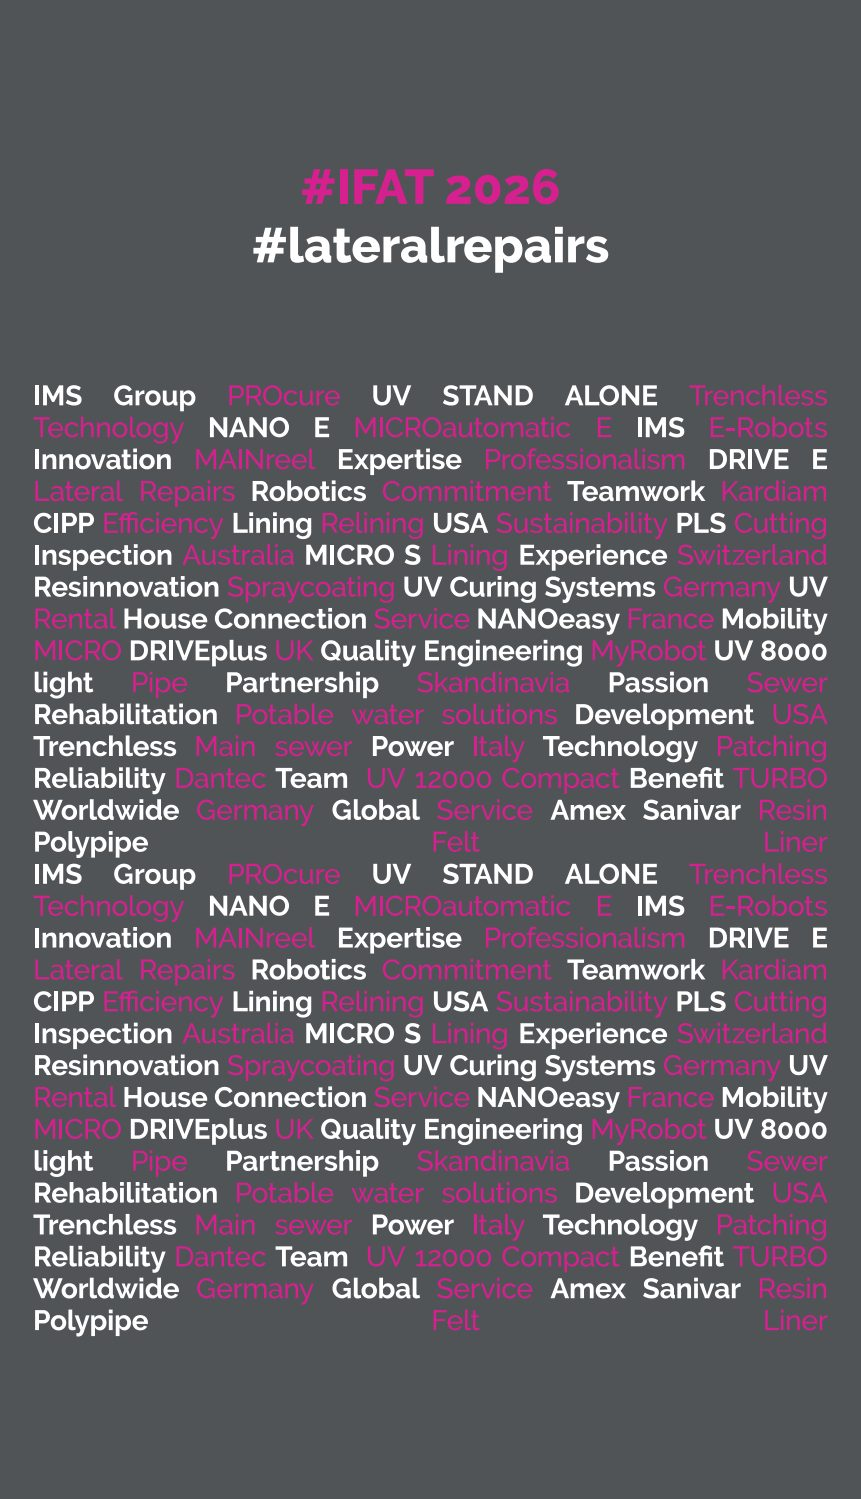
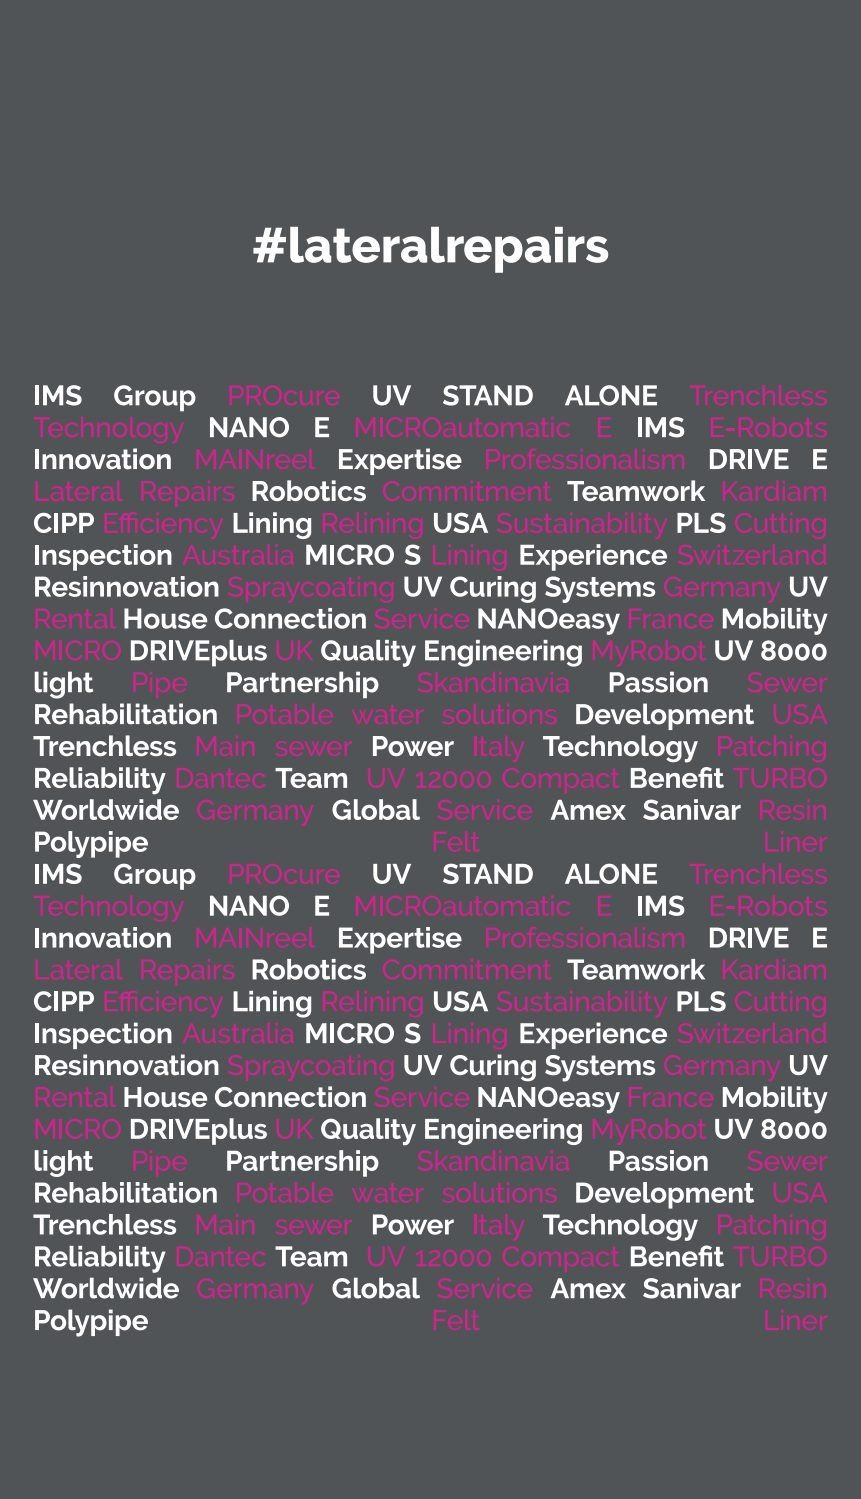
App refinements: units, Cure Time, artwork, header, Tech Data
- Mix Calc imperial mode is now inches throughout: liner length switches
  from feet to inches, and DN range, wall thickness and the out-of-range
  warning all convert too. Values typed in are converted when the unit
  system is toggled, so 150 mm no longer becomes 150 inches.
- Remove the Cure Time section entirely (screen, home tile, registry
  entry, its styles and the now-unused Clock/Check imports).
- Remove the "#IFAT 2026" line from the hashtag backwall artwork,
  keeping "#lateralrepairs" and the rest of the image intact.
- Section artwork now stays fixed behind the content while scrolling,
  softened with a dark scrim and blur so it reads as a branded wash and
  never competes with the text over it.
- Header wordmark is lifted from the brand artwork itself (transparent
  PNG), so "LATERAL REPAIRS" matches the printed lettering exactly.
- Tech Data is grouped into collapsible sections — All documents,
  Liners, Calibration hoses, Resins & materials, Silicate resin system —
  with per-item notes (duty rating, component A/B) instead of one flat
  list of 17.

Claude-Session: https://claude.ai/code/session_01BRHAYAgVEQBb18msxB8oJF

diff --git a/app/src/App.jsx b/app/src/App.jsx
@@ -1,7 +1,6 @@
 import { useState } from "react";
 import {
   Zap,
-  Clock,
   FileText,
   Shield,
   Image,
@@ -11,7 +10,6 @@ import {
   MapPin,
   Globe,
   RotateCcw,
-  Check,
   ChevronRight,
   ChevronLeft,
 } from "lucide-react";
@@ -46,11 +44,15 @@ const IMG = {
   backwall425:  "/images/backwall-425.jpg",
   topWall:      "/images/top-wall.jpg",
   banner:       "/images/banner.jpg",
+  wordmark:     "/images/wordmark.png",
 };
 
 const styles = {
   app: {
-    background: C.bg,
+    // Transparent so the fixed screen artwork behind it shows through;
+    // the page background itself is painted on <body>.
+    background: "transparent",
+    zIndex: 1,
     minHeight: "100vh",
     fontFamily: "'Rajdhani', 'Oswald', sans-serif",
     color: C.text,
@@ -249,16 +251,6 @@ const styles = {
   resultRow: { display: "flex", justifyContent: "space-between", padding: "6px 0", borderBottom: `1px solid ${C.border}` },
   resultLabel: { color: C.muted, fontSize: 13, letterSpacing: 1 },
   resultValue: { fontWeight: 700, fontSize: 15, color: C.green },
-  // Cure Timer
-  cureTitle: { fontSize: 24, fontWeight: 700, display: "flex", alignItems: "center", gap: 10, marginBottom: 20 },
-  cureResult: {
-    background: "#0a2030",
-    border: `1px solid ${C.cyan}44`,
-    borderRadius: 6,
-    padding: 20,
-    marginTop: 16,
-    textAlign: "center",
-  },
   // Contact
   contactCard: {
     background: C.card,
@@ -409,25 +401,52 @@ function kgPerMetre(liner, dnMm) {
 const mixedDensity = (r) =>
   r.single ? r.dens : (r.ratio[0] + r.ratio[1]) / (r.ratio[0] / r.densA + r.ratio[1] / r.densB);
 
-const DATASHEETS = [
-  { name: "Complete pack — all documents", file: "/datasheets/lr-technical-data-complete.pdf" },
-  { name: "MULTIline PRO 4.5 mm",      file: "/datasheets/multiline-pro-4-5mm.pdf" },
-  { name: "MULTIline PRO 5.5 mm",      file: "/datasheets/multiline-pro-5-5mm.pdf" },
-  { name: "MULTIline FLEX",            file: "/datasheets/multiline-flex.pdf" },
-  { name: "MULTIline CORE",            file: "/datasheets/multiline-core.pdf" },
-  { name: "MULTIline FORCE 3.0 mm",    file: "/datasheets/multiline-force-3-0mm.pdf" },
-  { name: "MULTIline FORCE RF 4.5 mm", file: "/datasheets/multiline-force-rf-4-5mm.pdf" },
-  { name: "MULTIline FORCE UV",        file: "/datasheets/multiline-force-uv.pdf" },
-  { name: "Calibration Hose Welded · Violet (LD)",  file: "/datasheets/calibration-hose-welded-violet-ld.pdf" },
-  { name: "Calibration Hose Welded (MD)",           file: "/datasheets/calibration-hose-welded-md.pdf" },
-  { name: "Calibration Hose Stitched & Welded (HD)", file: "/datasheets/calibration-hose-stitched-welded-hd.pdf" },
-  { name: "Glassfiber Complex 1050",   file: "/datasheets/glassfiber-complex-1050.pdf" },
-  { name: "End Cap Glue",              file: "/datasheets/end-cap-glue.pdf" },
-  { name: "MFE 7516 Vinyl Ester — SDS", file: "/datasheets/mfe7516-vinyl-ester-sds.pdf" },
-  { name: "Silicate Resin Waterglass Hardener — SDS", file: "/datasheets/silicate-resin-waterglass-hardener-sds.pdf" },
-  { name: "Silicate Resin W01 Fast — SDS",            file: "/datasheets/silicate-resin-w01-fast-sds.pdf" },
-  { name: "Silicate Resin Winter — SDS",               file: "/datasheets/silicate-resin-winter-sds.pdf" },
-  { name: "Silicate Resin Summer — SDS",               file: "/datasheets/silicate-resin-summer-sds.pdf" },
+// Tech Data documents, grouped so the list stays scannable. Each group is
+// collapsible; the first one starts open.
+const DATASHEET_GROUPS = [
+  {
+    group: "All documents",
+    items: [
+      { name: "Complete pack", note: "17 documents · 56 pages", file: "/datasheets/lr-technical-data-complete.pdf" },
+    ],
+  },
+  {
+    group: "Liners",
+    items: [
+      { name: "MULTIline PRO 4.5 mm",      file: "/datasheets/multiline-pro-4-5mm.pdf" },
+      { name: "MULTIline PRO 5.5 mm",      file: "/datasheets/multiline-pro-5-5mm.pdf" },
+      { name: "MULTIline FLEX",            file: "/datasheets/multiline-flex.pdf" },
+      { name: "MULTIline CORE",            file: "/datasheets/multiline-core.pdf" },
+      { name: "MULTIline FORCE 3.0 mm",    file: "/datasheets/multiline-force-3-0mm.pdf" },
+      { name: "MULTIline FORCE RF 4.5 mm", file: "/datasheets/multiline-force-rf-4-5mm.pdf" },
+      { name: "MULTIline FORCE UV",        file: "/datasheets/multiline-force-uv.pdf" },
+    ],
+  },
+  {
+    group: "Calibration hoses",
+    items: [
+      { name: "Welded · Violet",     note: "Light duty",  file: "/datasheets/calibration-hose-welded-violet-ld.pdf" },
+      { name: "Welded",              note: "Medium duty", file: "/datasheets/calibration-hose-welded-md.pdf" },
+      { name: "Stitched & Welded",   note: "Heavy duty",  file: "/datasheets/calibration-hose-stitched-welded-hd.pdf" },
+    ],
+  },
+  {
+    group: "Resins & materials",
+    items: [
+      { name: "MFE 7516 Vinyl Ester",  note: "Safety data sheet", file: "/datasheets/mfe7516-vinyl-ester-sds.pdf" },
+      { name: "Glassfiber Complex 1050", file: "/datasheets/glassfiber-complex-1050.pdf" },
+      { name: "End Cap Glue",            file: "/datasheets/end-cap-glue.pdf" },
+    ],
+  },
+  {
+    group: "Silicate resin system",
+    items: [
+      { name: "Waterglass Hardener", note: 'Component "B" · SDS', file: "/datasheets/silicate-resin-waterglass-hardener-sds.pdf" },
+      { name: "W01 Fast",            note: 'Component "A" · SDS', file: "/datasheets/silicate-resin-w01-fast-sds.pdf" },
+      { name: "Winter",              note: 'Component "A" · SDS', file: "/datasheets/silicate-resin-winter-sds.pdf" },
+      { name: "Summer",              note: 'Component "A" · SDS', file: "/datasheets/silicate-resin-summer-sds.pdf" },
+    ],
+  },
 ];
 
 // Certifying / testing bodies shown as logos only (no certificate uploaded).
@@ -522,7 +541,6 @@ function HomeScreen({ navigate }) {
       <div style={styles.grid}>
         {[
           { key: "calc",    Icon: Zap,      iconColor: C.pink,   label: "MIX CALC",     accent: C.pink },
-          { key: "cure",    Icon: Clock,    iconColor: C.cyan,   label: "CURE TIME",    accent: null },
           { key: "data",    Icon: FileText, iconColor: C.gold,   label: "TECH DATA",    accent: null },
           { key: "certs",   Icon: Shield,   iconColor: C.purple, label: "CERTIFICATES", accent: null },
           { key: "media",   Icon: Image,    iconColor: C.gold,   label: "MEDIA",        accent: null },
@@ -564,10 +582,31 @@ function CalcScreen() {
   const liner = LINERS.find((l) => l.name === linerType);
   const isMetric = units === "METRIC";
 
+  // Convert what's already typed when the unit system changes, so a DN of
+  // 150 mm doesn't silently become 150 inches. Imperial is inches for both
+  // diameter and length.
+  function switchUnits(next) {
+    if (next === units) return;
+    const conv = (v, f) => {
+      const n = parseFloat(v);
+      return Number.isFinite(n) ? String(Math.round(n * f * 100) / 100) : v;
+    };
+    if (next === "IMPERIAL") {
+      setDn((v) => conv(v, 1 / 25.4));
+      setLength((v) => conv(v, 1000 / 25.4)); // m -> in
+    } else {
+      setDn((v) => conv(v, 25.4));
+      setLength((v) => conv(v, 25.4 / 1000)); // in -> m
+    }
+    setUnits(next);
+    setResult(null);
+  }
+
   function calculate() {
     const rs = RESINS.find((r) => r.name === resin);
+    // Imperial input is inches for BOTH diameter and length.
     const dnMm = (parseFloat(dn) || 0) * (isMetric ? 1 : 25.4);
-    const lenM = (parseFloat(length) || 0) * (isMetric ? 1 : 0.3048);
+    const lenM = (parseFloat(length) || 0) * (isMetric ? 1 : 0.0254);
     if (dnMm <= 0 || lenM <= 0) return;
     const extraPct = parseFloat(extra) || 0;
 
@@ -628,8 +667,8 @@ function CalcScreen() {
           ["Liner type",       result.linerType],
           ["Resin system",     result.resin],
           ["Liner DN",         result.dn + (units === "METRIC" ? " mm" : " in")],
-          ["Wall thickness",   result.wall.toFixed(1) + " mm"],
-          ["Liner lenght",     result.length + (units === "METRIC" ? " m" : " ft")],
+          ["Wall thickness",   units === "METRIC" ? result.wall.toFixed(1) + " mm" : (result.wall / 25.4).toFixed(2) + " in"],
+          ["Liner lenght",     result.length + (units === "METRIC" ? " m" : " in")],
           ["Extra margin",     "+" + result.extraPct + " %"],
           ["Mix ratio",        result.rs.single ? "Single component" : result.rs.ratio.join(":") + " by weight"],
         ].map(([l, v]) => (
@@ -641,9 +680,11 @@ function CalcScreen() {
 
         {result.dnOutOfRange && (
           <div style={{ color: "#ffc65c", fontSize: 13, lineHeight: 1.5, padding: "8px 0" }}>
-            ⚠ DN {result.dnMm} mm is outside the {result.linerType} range
-            ({LINERS.find((l) => l.name === result.linerType).dn.join("–")} mm) —
-            calculated at DN {result.dnClamped} mm.
+            ⚠ DN {isMetric ? `${result.dnMm} mm` : `${(result.dnMm / 25.4).toFixed(1)} in`} is outside
+            the {result.linerType} range ({isMetric
+              ? `${LINERS.find((l) => l.name === result.linerType).dn.join("–")} mm`
+              : LINERS.find((l) => l.name === result.linerType).dn.map((d) => (d / 25.4).toFixed(1)).join("–") + " in"}) —
+            calculated at DN {isMetric ? `${result.dnClamped} mm` : `${(result.dnClamped / 25.4).toFixed(1)} in`}.
           </div>
         )}
 
@@ -737,7 +778,7 @@ function CalcScreen() {
       <span style={styles.label}>UNITS</span>
       <div style={styles.toggleRow}>
         {["METRIC", "IMPERIAL"].map((u) => (
-          <button key={u} style={styles.toggleBtn(units === u, C.text)} onClick={() => setUnits(u)}>{u}</button>
+          <button key={u} style={styles.toggleBtn(units === u, C.text)} onClick={() => switchUnits(u)}>{u}</button>
         ))}
       </div>
 
@@ -750,11 +791,15 @@ function CalcScreen() {
       <span style={styles.label}>LINER DN ({isMetric ? "MM" : "IN"})</span>
       <input style={styles.input} value={dn} onChange={(e) => setDn(e.target.value)} placeholder={isMetric ? "150" : "6"} type="number" />
       <div style={{ color: C.muted, fontSize: 13, marginTop: 6 }}>
-        {liner.name}: DN {liner.dn[0]}–{liner.dn[1]} mm · wall {liner.wall.toFixed(1)} mm (from datasheet)
+        {liner.name}: DN{" "}
+        {isMetric
+          ? `${liner.dn[0]}–${liner.dn[1]} mm · wall ${liner.wall.toFixed(1)} mm`
+          : `${(liner.dn[0] / 25.4).toFixed(1)}–${(liner.dn[1] / 25.4).toFixed(1)} in · wall ${(liner.wall / 25.4).toFixed(2)} in`}
+        {" "}(from datasheet)
       </div>
 
-      <span style={styles.label}>LINER LENGTH ({isMetric ? "M" : "FT"})</span>
-      <input style={styles.input} value={length} onChange={(e) => setLength(e.target.value)} placeholder={isMetric ? "5" : "15"} type="number" />
+      <span style={styles.label}>LINER LENGTH ({isMetric ? "M" : "IN"})</span>
+      <input style={styles.input} value={length} onChange={(e) => setLength(e.target.value)} placeholder={isMetric ? "5" : "200"} type="number" />
 
       <span style={styles.label}>EXTRA MARGIN (WET-OUT / WASTAGE)</span>
       <SelectDropdown options={EXTRA_OPTIONS} value={extra} onChange={setExtra} />
@@ -767,75 +812,48 @@ function CalcScreen() {
   );
 }
 
-function CureScreen() {
-  const [method, setMethod] = useState("AMBIENT");
-  const [temp, setTemp] = useState("20");
-  const [result, setResult] = useState(null);
-  const METHODS = ["AMBIENT", "HOT WATER", "STEAM"];
-
-  function calculate() {
-    const t = parseFloat(temp) || 20;
-    let hours;
-    if (method === "AMBIENT")        hours = Math.max(1, Math.round(48 / (t / 10)));
-    else if (method === "HOT WATER") hours = Math.max(0.5, Math.round(24 / (t / 20)));
-    else                             hours = Math.max(0.25, Math.round(8 / (t / 60)));
-    setResult({ hours, method, temp: t });
-  }
-
-  return (
-    <div style={styles.body}>
-      <SectionPhoto
-        src={IMG.backwallLevi}
-        url={IMG.backwallLevi}
-        maxHeight={220}
-        style={{ marginBottom: 20 }}
-      />
-      <div style={styles.cureTitle}>
-        <Clock size={28} color={C.cyan} style={{ filter: `drop-shadow(0 0 6px ${C.cyan})` }} />
-        <span>CURE TIMER</span>
-      </div>
-
-      <span style={styles.label}>CURING METHOD</span>
-      <div style={styles.toggleRow}>
-        {METHODS.map((m) => (
-          <button key={m} style={{ ...styles.toggleBtn(method === m, C.cyan), fontSize: 11 }} onClick={() => { setMethod(m); setResult(null); }}>
-            {method === m && <Check size={12} />}{m}
-          </button>
-        ))}
-      </div>
-
-      <span style={styles.label}>TEMPERATURE (°C)</span>
-      <input style={styles.input} value={temp} onChange={(e) => setTemp(e.target.value)} type="number" />
-
-      <button style={styles.calcBtn(C.cyan)} onClick={calculate}>CALCULATE TIME</button>
-
-      {result && (
-        <div style={styles.cureResult}>
-          <div style={{ color: C.cyan, fontSize: 12, letterSpacing: 3, marginBottom: 8 }}>ESTIMATED CURE TIME</div>
-          <div style={{ fontSize: 48, fontWeight: 900, color: C.cyan }}>{result.hours}h</div>
-          <div style={{ color: C.muted, fontSize: 13, marginTop: 4 }}>{result.method} @ {result.temp}°C</div>
-        </div>
-      )}
-
-      <div style={styles.versionText}>VERSION 1.3.0</div>
-    </div>
-  );
-}
-
 function DataScreen() {
+  // Only the first group starts expanded, so the screen opens as a short
+  // menu instead of one long list.
+  const [open, setOpen] = useState(() => DATASHEET_GROUPS.map((_, i) => i === 0));
+  const toggle = (i) => setOpen((o) => o.map((v, k) => (k === i ? !v : v)));
+
   return (
     <div style={styles.body}>
       <div style={styles.sectionTitle}>TECHNICAL DATA</div>
       <div style={styles.sectionSub}>:: OFFICIAL DOCUMENTATION</div>
       <div style={styles.divider} />
-      {DATASHEETS.map(({ name, file }) => (
-        <div key={name} style={styles.listItem} onClick={() => window.open(file, "_blank")}>
-          <div style={styles.listIcon}><FileText size={24} color={C.pink} /></div>
-          <div style={styles.listText}>
-            <div style={styles.listTitle}>{name}</div>
-            <div style={styles.listSub}>OPEN PDF</div>
+
+      {DATASHEET_GROUPS.map(({ group, items }, gi) => (
+        <div key={group} style={{ marginBottom: 14 }}>
+          <div
+            onClick={() => toggle(gi)}
+            style={{
+              display: "flex", alignItems: "center", gap: 10, cursor: "pointer",
+              padding: "10px 4px", borderBottom: `1px solid ${C.border}`, marginBottom: 10,
+            }}
+          >
+            <span style={{ fontSize: 13, fontWeight: 700, letterSpacing: 2, color: C.pink, flex: 1 }}>
+              {group.toUpperCase()}
+            </span>
+            <span style={{ fontSize: 12, color: C.muted }}>{items.length}</span>
+            <ChevronRight
+              size={16}
+              color={C.muted}
+              style={{ transform: open[gi] ? "rotate(90deg)" : "none", transition: "transform 0.15s" }}
+            />
           </div>
-          <ChevronRight size={18} color={C.muted} />
+
+          {open[gi] && items.map(({ name, note, file }) => (
+            <div key={file} style={styles.listItem} onClick={() => window.open(file, "_blank")}>
+              <div style={styles.listIcon}><FileText size={24} color={C.pink} /></div>
+              <div style={styles.listText}>
+                <div style={styles.listTitle}>{name}</div>
+                <div style={styles.listSub}>{note ? note.toUpperCase() : "OPEN PDF"}</div>
+              </div>
+              <ChevronRight size={18} color={C.muted} />
+            </div>
+          ))}
         </div>
       ))}
     </div>
@@ -992,14 +1010,15 @@ function ContactScreen() {
 }
 
 // ─── APP ─────────────────────────────────────────────────────────────────────
+// `bg` is the artwork that stays fixed behind each screen while its content
+// scrolls over it.
 const SCREENS = {
-  home:    { title: null,           component: HomeScreen },
-  calc:    { title: "CALCULATOR",   component: CalcScreen },
-  cure:    { title: "CURE TIME",    component: CureScreen },
-  data:    { title: "DATASHEETS",   component: DataScreen },
-  certs:   { title: "CERTIFICATES", component: CertsScreen },
-  media:   { title: "MEDIA",        component: MediaScreen },
-  contact: { title: "CONTACT",      component: ContactScreen },
+  home:    { title: null,           component: HomeScreen,    bg: IMG.backwallDesni },
+  calc:    { title: "CALCULATOR",   component: CalcScreen,    bg: IMG.backwall400 },
+  data:    { title: "DATASHEETS",   component: DataScreen,    bg: IMG.backwall425 },
+  certs:   { title: "CERTIFICATES", component: CertsScreen,   bg: IMG.backwall400 },
+  media:   { title: "MEDIA",        component: MediaScreen,   bg: IMG.backwallLevi },
+  contact: { title: "CONTACT",      component: ContactScreen, bg: IMG.backwall425 },
 };
 
 export default function App() {
@@ -1018,6 +1037,33 @@ export default function App() {
         ::-webkit-scrollbar { width: 4px; background: #111; }
         ::-webkit-scrollbar-thumb { background: #333; border-radius: 2px; }
       `}</style>
+
+      {/* Screen artwork, held fixed so it stays visible behind the content
+          as the page scrolls. Dimmed and non-interactive so text stays legible. */}
+      {current.bg && (
+        <div
+          aria-hidden="true"
+          style={{
+            position: "fixed",
+            top: 0,
+            bottom: 0,
+            left: "50%",
+            width: "100%",
+            maxWidth: 420,
+            // Dark scrim + blur: the artwork reads as a branded wash rather
+            // than lettering that competes with the text scrolling over it.
+            backgroundImage: `linear-gradient(rgba(10,10,10,0.5), rgba(10,10,10,0.5)), url(${current.bg})`,
+            backgroundSize: "cover",
+            backgroundPosition: "center",
+            filter: "blur(7px)",
+            transform: "translateX(-50%) scale(1.06)",
+            opacity: 0.5,
+            pointerEvents: "none",
+            zIndex: 0,
+          }}
+        />
+      )}
+
       <div style={styles.app}>
         {/* Header */}
         <div style={styles.header}>
@@ -1034,7 +1080,13 @@ export default function App() {
                 <img src={IMG.logo} alt="Lateral Repairs" style={{ maxHeight: 44, display: "block" }} />
               </div>
               <div style={styles.headerTitle}>
-                <div style={styles.brandName}>LATERAL REPAIRS</div>
+                {/* The wordmark is lifted straight from the brand artwork, so
+                    the lettering matches the printed material exactly. */}
+                <img
+                  src={IMG.wordmark}
+                  alt="LATERAL REPAIRS"
+                  style={{ display: "block", height: 19, width: "auto", marginBottom: 3 }}
+                />
                 <div style={styles.brandSub}>MANUFACTURING PERFECTION</div>
               </div>
             </>
